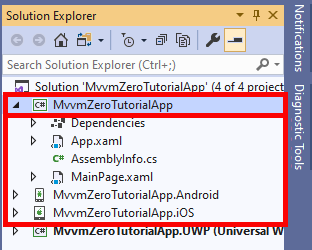
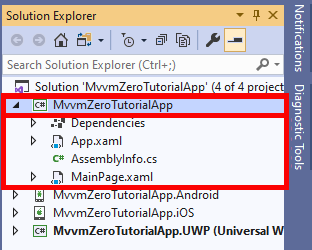
Added section showing work is only in the shared project Updated a couplke of images.

Changed region(s): [[0.0, 0.364, 0.9519, 0.924]]

diff --git a/README.md b/README.md
@@ -38,8 +38,14 @@ And here it is ...
 
 ![Image of the default UWP application running before any changes have been made](https://github.com/Keflon/MvvmZeroTutorialApp/raw/master/Images/DefaultApplicationRunningUwp.png "Default app UWP")
 
+### Projects in the Solution
+Your Visual Studio Solution will contain one platform-specific project for each target platform you have choosen to support. We will not be making any changes to those  
+All of our work will be in the cross-platform project `MvvmZeroTutorialApp`  
+
+![Image of Solution Tree showing the project in which we will be working](https://github.com/Keflon/MvvmZeroTutorialApp/raw/master/Images/OnlyWorkingInMvvmZeroTutorialAppProject.png "MvvmZeroTutorialApp project")
+
 ### Now add two NuGet packages
-OnlyWorkingInMvvmZeroTutorialAppProject
+
 
 Right-click->Manage NuGet packages...  
 ![Image showing context menu to launch the Nuget package manager](https://github.com/Keflon/MvvmZeroTutorialApp/raw/master/Images/LaunchManageNuGetPackages.png "Manage NuGet packages")
@@ -63,8 +69,8 @@ Add these folders to the project (Right-click->Add->New Folder ...)
 ![Dialog for adding a Content Page](https://github.com/Keflon/MvvmZeroTutorialApp/raw/master/Images/AddContentPage.png "Add ContentPage")
 
 ### Add the rest of our `ContentPages`
-- CabbagePage.xaml
-- OnionPage.xaml
+- CabbagesPage.xaml
+- OnionsPage.xaml
 - ResultsPage.xaml
 
 The Solution tree should now look like this:  
@@ -80,11 +86,11 @@ One `ViewModel` for each `ContentPage`
 ![Image of dialog for adding a POCO class](https://github.com/Keflon/MvvmZeroTutorialApp/raw/master/Images/AddClassHomePage.png "Logo Title Text 1")
 
 ### Now add the remaining ViewModel classes
-- Mvvm/ViewModels/CabbagePageVm.cs
-- Mvvm/ViewModels/OnionPageVm.cs
-- Mvvm/ViewModels/ResultsPageVm.cs
-- Mvvm/PageViewModels/TutorialBaseVm.cs
-- Mvvm/Boilerplate/Locator.cs
+- Mvvm/PageViewModels/CabbagesPageVm.cs
+- Mvvm/PageViewModels/OnionsPageVm.cs
+- Mvvm/PageViewModels/ResultsPageVm.cs
+- Mvvm/ViewModels/TutorialBaseVm.cs
+- Mvvm/PageBoilerplate/Locator.cs
 
 ### The Solution tree should now to look like this:  
 ![Image of the full Solution Tree with our additions highlighted](https://github.com/Keflon/MvvmZeroTutorialApp/raw/master/Images/FullSolutionTree.png "Full Solution Tree")
@@ -397,8 +403,8 @@ public void Init(string payload)
     throw new NotImplementedException();
 }
 ```
-### Now write the xaml for CabbagesPage
-Replace the Page content with the following
+### Now write the UI for CabbagesPage
+Replace the Page content in `CabbagesPage.xaml` with the following
 ```xml
     <ContentPage.Content>
         <StackLayout VerticalOptions="CenterAndExpand" HorizontalOptions="CenterAndExpand">
@@ -411,6 +417,7 @@ Replace the Page content with the following
 ```
 
 ### Now for the ResultsPage. First the ViewModel ...
+Replace the contents of `ResultsPageVm.cs` with the following
 ```csharp
 using FunctionZero.CommandZero;
 using FunctionZero.MvvmZero;
@@ -448,7 +455,7 @@ namespace MvvmZeroTutorialApp.Mvvm.PageViewModels
 
 ```
 
-### ... then in ResultsPage.xaml, replace the page content with this:
+### ... then in ResultsPage.xaml, replace the page content with this
 ```xml
     <ContentPage.Content>
         <StackLayout VerticalOptions="CenterAndExpand" HorizontalOptions="CenterAndExpand">
@@ -496,7 +503,7 @@ namespace MvvmZeroTutorialApp.Mvvm.PageViewModels
     }
 }
 ```
-... and the xaml for OnionsPage.xaml
+... and the UI for OnionsPage.xaml
 ```xml
     <ContentPage.Content>
         <StackLayout VerticalOptions="CenterAndExpand" HorizontalOptions="CenterAndExpand" >
@@ -505,7 +512,7 @@ namespace MvvmZeroTutorialApp.Mvvm.PageViewModels
         </StackLayout>
     </ContentPage.Content>
 ```
-And there you have it. A cross-platform app for iOS, Android and UWP using the MVVM pattern, dependency injection and an IoC container!
+And there you have it. A cross-platform app for iOS, Android and UWP using the MVVM pattern, dependency injection and an IoC container!  
 To run this on an Android device
 - Enable developer mode on the device (often by tapping on the build number in settings 5 times)
 - Plug it into your PC
